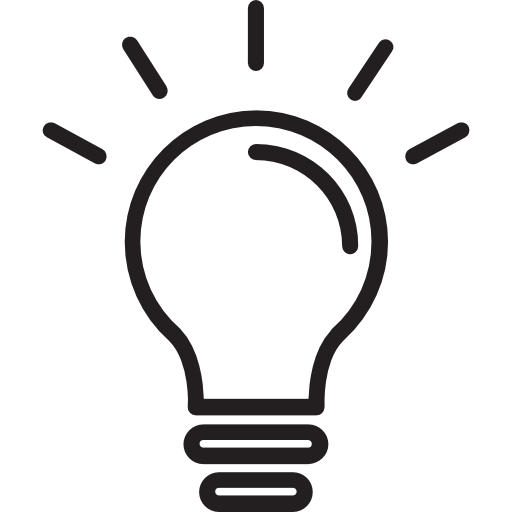
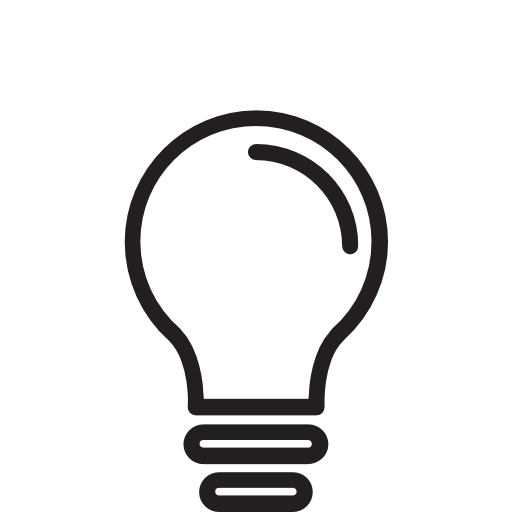
CSS

diff --git a/Website/style.css b/Website/style.css
@@ -9,7 +9,13 @@
 }
 
 .item_container{
-    
+    /* border-style: solid; */
+    border-radius: 6px;
+    margin:10px;
+    padding-left: 10px;
+    padding-right: 10px;
+    padding-bottom: 10px;
+    box-shadow: 0 4px 8px 0 rgba(0, 0, 0, 0.2), 0 6px 20px 0 rgba(0, 0, 0, 0.19);
 }
 
 .item_container img{
